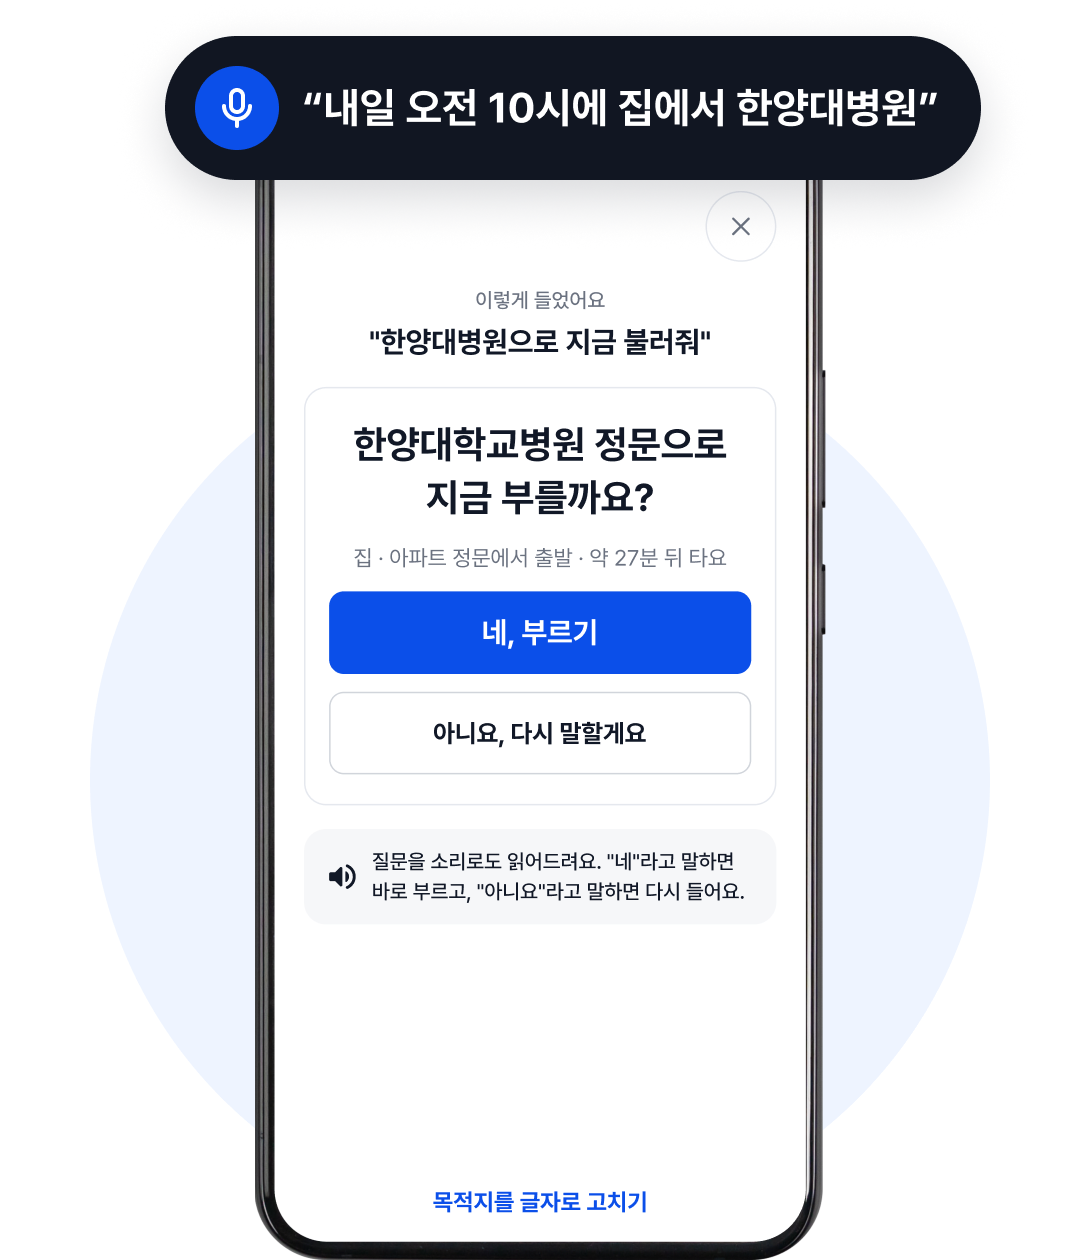
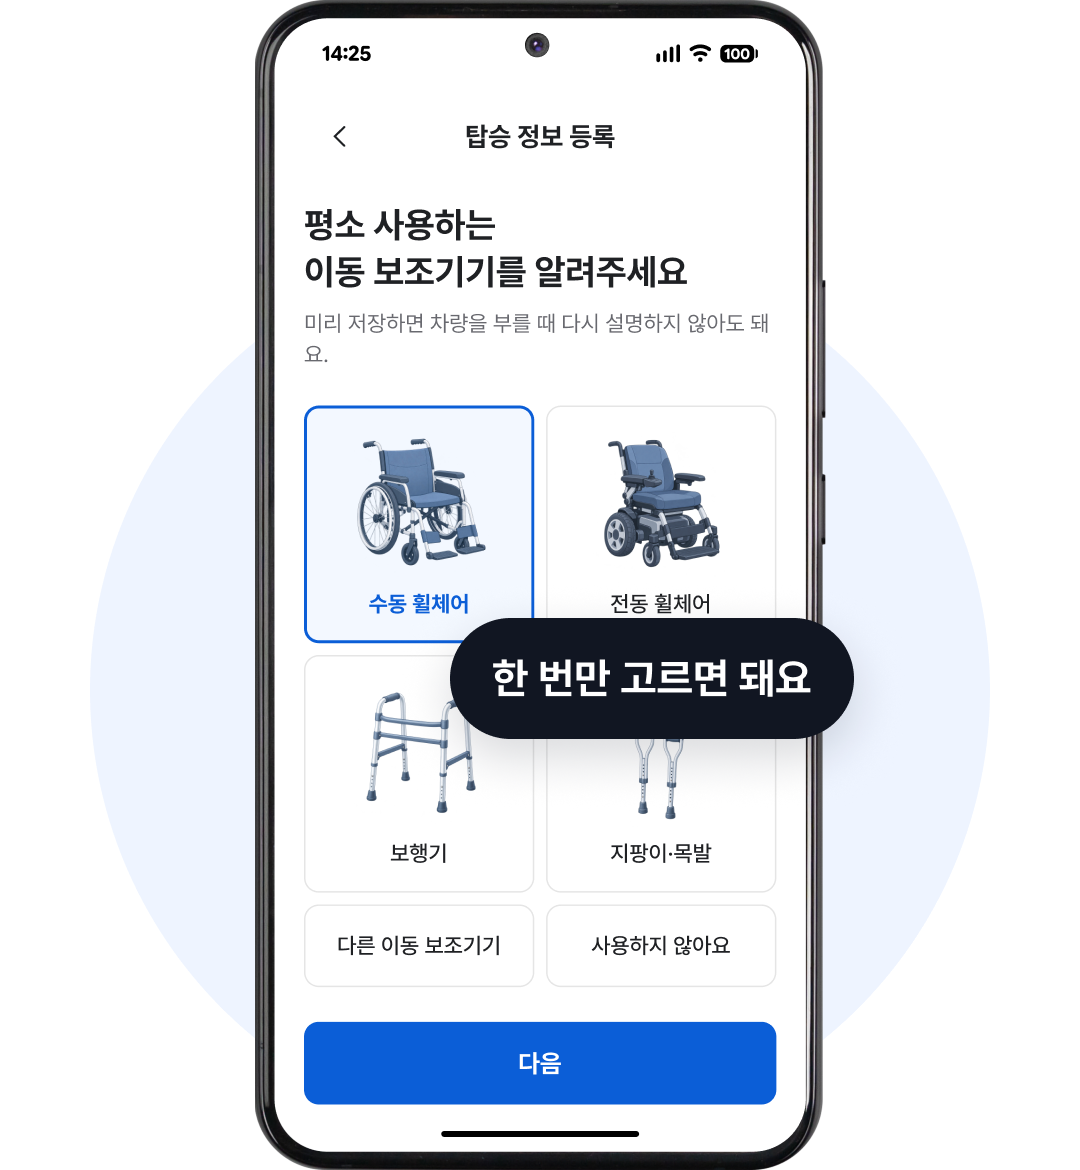
온보딩 2쪽: 음성 부르기 대신 탑승 정보 한 번 등록 (목업 = 탑승 정보 등록 화면) · 4쪽 마이크 설명 · 캐시 버전 갱신

diff --git a/onboarding.html b/onboarding.html
@@ -15,9 +15,9 @@
     <meta name="mobile-web-app-capable" content="yes">
     <meta name="apple-mobile-web-app-title" content="모두의 이동">
     <title>시작하기 | 모두의 이동</title>
-    <link rel="stylesheet" href="css/common.css?v=2610241218">
-    <link rel="stylesheet" href="css/onboarding.css?v=2610241218">
-    <script src="js/common.js?v=2610241218"></script>
+    <link rel="stylesheet" href="css/common.css?v=2610241229">
+    <link rel="stylesheet" href="css/onboarding.css?v=2610241229">
+    <script src="js/common.js?v=2610241229"></script>
 </head>
 <body>
     <!-- 온보딩_v3 1~4 (언제 탈 수 있는지 · 말하면 자동 작성 · 차가 오면 알림 · 권한 허용) -->
@@ -42,10 +42,10 @@
         <!-- 2 -->
         <section class="onb__slide" data-onb-slide aria-labelledby="onb-t2" hidden>
             <div class="onb__text">
-                <h2 class="onb__title" id="onb-t2">말만 하면<br><em>자동으로</em> 적어드려요</h2>
-                <p class="onb__desc">날짜·시간·장소를 알아서 채워요.<br>틀린 부분만 눌러서 고치면 돼요.</p>
+                <h2 class="onb__title" id="onb-t2">내 이동 보조기기를<br><em>한 번만</em> 알려 주세요</h2>
+                <p class="onb__desc">휠체어·탑승 방법을 저장해 두면<br>부를 때마다 기사님께 함께 전해져요.</p>
             </div>
-            <img class="onb__art onb__art--lift" src="image/onboarding-2.png" alt="말로 부르기 예시 · “내일 오전 10시에 집에서 한양대병원”">
+            <img class="onb__art" src="image/onboarding-2.png" alt="탑승 정보 등록 화면 예시 · 평소 사용하는 이동 보조기기 중 수동 휠체어를 고른 모습 · 한 번만 고르면 돼요">
         </section>
 
         <!-- 3 -->
@@ -82,7 +82,7 @@
                     <span class="onb-perm__icon" aria-hidden="true"><span class="icon icon--microphone"></span></span>
                     <span class="onb-perm__text">
                         <span class="onb-perm__title">마이크</span>
-                        <span class="onb-perm__desc">말로 목적지와 시간을 입력할 때만 써요.</span>
+                        <span class="onb-perm__desc">목적지를 말로 입력할 때만 써요.</span>
                     </span>
                 </li>
             </ul>
@@ -97,6 +97,6 @@
         </div>
     </div>
 
-    <script src="js/onboarding.js?v=2610241218"></script>
+    <script src="js/onboarding.js?v=2610241229"></script>
 </body>
 </html>

diff --git a/index.html b/index.html
@@ -15,9 +15,9 @@
     <meta name="mobile-web-app-capable" content="yes">
     <meta name="apple-mobile-web-app-title" content="모두의 이동">
     <title>모두의 이동</title>
-    <link rel="stylesheet" href="css/common.css?v=2610241218">
-    <link rel="stylesheet" href="css/home.css?v=2610241218">
-    <script src="js/common.js?v=2610241218"></script>
+    <link rel="stylesheet" href="css/common.css?v=2610241229">
+    <link rel="stylesheet" href="css/home.css?v=2610241229">
+    <script src="js/common.js?v=2610241229"></script>
     <script>
         // 앱을 처음 열 때(바깥에서 들어올 때)는 스플래시부터 · 앱 안에서 홈으로 돌아올 땐 바로 홈
         try {
@@ -25,14 +25,14 @@
             if (!sessionStorage.getItem('splashShown') && !fromInside) location.replace('splash.html');
         } catch (e) {}
     </script>
-    <script src="js/config.js?v=2610241218"></script>
-    <script src="js/ride-info.js?v=2610241218"></script>
-    <script src="js/stats.js?v=2610241218"></script>
-    <script src="js/reader.js?v=2610241218"></script>
-    <script src="js/trip.js?v=2610241218"></script>
-    <script src="js/actions.js?v=2610241218"></script>
-    <script src="js/push.js?v=2610241218"></script>
-    <script src="js/notices.js?v=2610241218"></script>
+    <script src="js/config.js?v=2610241229"></script>
+    <script src="js/ride-info.js?v=2610241229"></script>
+    <script src="js/stats.js?v=2610241229"></script>
+    <script src="js/reader.js?v=2610241229"></script>
+    <script src="js/trip.js?v=2610241229"></script>
+    <script src="js/actions.js?v=2610241229"></script>
+    <script src="js/push.js?v=2610241229"></script>
+    <script src="js/notices.js?v=2610241229"></script>
 </head>
 <body>
     <div id="wrap">

diff --git a/riding.html b/riding.html
@@ -15,19 +15,19 @@
     <meta name="mobile-web-app-capable" content="yes">
     <meta name="apple-mobile-web-app-title" content="모두의 이동">
     <title>탑승 중 | 모두의 이동</title>
-    <link rel="stylesheet" href="css/common.css?v=2610241218">
-    <link rel="stylesheet" href="css/progress.css?v=2610241218">
-    <script src="js/common.js?v=2610241218"></script>
-    <script src="js/config.js?v=2610241218"></script>
-    <script src="js/trip.js?v=2610241218"></script>
-    <script src="js/ride-info.js?v=2610241218"></script>
+    <link rel="stylesheet" href="css/common.css?v=2610241229">
+    <link rel="stylesheet" href="css/progress.css?v=2610241229">
+    <script src="js/common.js?v=2610241229"></script>
+    <script src="js/config.js?v=2610241229"></script>
+    <script src="js/trip.js?v=2610241229"></script>
+    <script src="js/ride-info.js?v=2610241229"></script>
     <script>
         // 탑승 시각 기록 (도착 예상·이동 완료 시각 계산에 씀)
         if (!Trip.get().boardedAt) Trip.set({ boardedAt: Date.now() });
     </script>
-    <script src="js/map.js?v=2610241218"></script>
-    <script src="js/push.js?v=2610241218"></script>
-    <script src="js/actions.js?v=2610241218"></script>
+    <script src="js/map.js?v=2610241229"></script>
+    <script src="js/push.js?v=2610241229"></script>
+    <script src="js/actions.js?v=2610241229"></script>
 </head>
 <body>
     <div id="wrap" class="map-page" data-sheet-fit="40" data-progress-stage="riding" data-stage="riding">

diff --git a/voice.html b/voice.html
@@ -15,15 +15,15 @@
     <meta name="mobile-web-app-capable" content="yes">
     <meta name="apple-mobile-web-app-title" content="모두의 이동">
     <title>음성으로 부르기 | 모두의 이동</title>
-    <link rel="stylesheet" href="css/common.css?v=2610241218">
-    <link rel="stylesheet" href="css/voice.css?v=2610241218">
-    <script src="js/common.js?v=2610241218"></script>
-    <script src="js/config.js?v=2610241218"></script>
-    <script src="js/trip.js?v=2610241218"></script>
-    <script src="js/map.js?v=2610241218"></script>
-    <script src="js/places.js?v=2610241218"></script>
-    <script src="js/ride-info.js?v=2610241218"></script>
-    <script src="js/stats.js?v=2610241218"></script>
+    <link rel="stylesheet" href="css/common.css?v=2610241229">
+    <link rel="stylesheet" href="css/voice.css?v=2610241229">
+    <script src="js/common.js?v=2610241229"></script>
+    <script src="js/config.js?v=2610241229"></script>
+    <script src="js/trip.js?v=2610241229"></script>
+    <script src="js/map.js?v=2610241229"></script>
+    <script src="js/places.js?v=2610241229"></script>
+    <script src="js/ride-info.js?v=2610241229"></script>
+    <script src="js/stats.js?v=2610241229"></script>
 </head>
 <body>
     <div id="wrap" class="voice-page">
@@ -144,6 +144,6 @@
         </section>
     </div>
 
-    <script src="js/voice.js?v=2610241218"></script>
+    <script src="js/voice.js?v=2610241229"></script>
 </body>
 </html>

diff --git a/waiting.html b/waiting.html
@@ -15,16 +15,16 @@
     <meta name="mobile-web-app-capable" content="yes">
     <meta name="apple-mobile-web-app-title" content="모두의 이동">
     <title>차량 찾는 중 | 모두의 이동</title>
-    <link rel="stylesheet" href="css/common.css?v=2610241218">
-    <link rel="stylesheet" href="css/progress.css?v=2610241218">
-    <script src="js/common.js?v=2610241218"></script>
-    <script src="js/config.js?v=2610241218"></script>
-    <script src="js/trip.js?v=2610241218"></script>
-    <script src="js/map.js?v=2610241218"></script>
-    <script src="js/push.js?v=2610241218"></script>
-    <script src="js/actions.js?v=2610241218"></script>
-    <script src="js/stats.js?v=2610241218"></script>
-    <script src="js/ride-info.js?v=2610241218"></script>
+    <link rel="stylesheet" href="css/common.css?v=2610241229">
+    <link rel="stylesheet" href="css/progress.css?v=2610241229">
+    <script src="js/common.js?v=2610241229"></script>
+    <script src="js/config.js?v=2610241229"></script>
+    <script src="js/trip.js?v=2610241229"></script>
+    <script src="js/map.js?v=2610241229"></script>
+    <script src="js/push.js?v=2610241229"></script>
+    <script src="js/actions.js?v=2610241229"></script>
+    <script src="js/stats.js?v=2610241229"></script>
+    <script src="js/ride-info.js?v=2610241229"></script>
 </head>
 <body>
     <div id="wrap" class="map-page" data-sheet-fit data-progress-stage="waiting" data-cancel-stage="before">

diff --git a/map-pick.html b/map-pick.html
@@ -15,13 +15,13 @@
     <meta name="mobile-web-app-capable" content="yes">
     <meta name="apple-mobile-web-app-title" content="모두의 이동">
     <title>지도에서 고르기 | 모두의 이동</title>
-    <link rel="stylesheet" href="css/common.css?v=2610241218">
-    <link rel="stylesheet" href="css/pick.css?v=2610241218">
-    <script src="js/common.js?v=2610241218"></script>
-    <script src="js/config.js?v=2610241218"></script>
-    <script src="js/trip.js?v=2610241218"></script>
-    <script src="js/map.js?v=2610241218"></script>
-    <script src="js/favorites.js?v=2610241218"></script>
+    <link rel="stylesheet" href="css/common.css?v=2610241229">
+    <link rel="stylesheet" href="css/pick.css?v=2610241229">
+    <script src="js/common.js?v=2610241229"></script>
+    <script src="js/config.js?v=2610241229"></script>
+    <script src="js/trip.js?v=2610241229"></script>
+    <script src="js/map.js?v=2610241229"></script>
+    <script src="js/favorites.js?v=2610241229"></script>
 </head>
 <body>
     <!-- 지도에서 직접 고르기 (?mode=pickup 탑승 위치 · dest 도착지 · fav 자주 가는 곳 · &edit=home 집 주소 바꾸기)
@@ -57,6 +57,6 @@
         </section>
     </div>
 
-    <script src="js/map-pick.js?v=2610241218"></script>
+    <script src="js/map-pick.js?v=2610241229"></script>
 </body>
 </html>

diff --git a/wheelchair.html b/wheelchair.html
@@ -15,12 +15,12 @@
     <meta name="mobile-web-app-capable" content="yes">
     <meta name="apple-mobile-web-app-title" content="모두의 이동">
     <title>휠체어 정보 추가 | 모두의 이동</title>
-    <link rel="stylesheet" href="css/common.css?v=2610241218">
-    <link rel="stylesheet" href="css/ride-info.css?v=2610241218">
-    <link rel="stylesheet" href="css/wheelchair.css?v=2610241218">
-    <script src="js/common.js?v=2610241218"></script>
-    <script src="js/config.js?v=2610241218"></script>
-    <script src="js/ride-info.js?v=2610241218"></script>
+    <link rel="stylesheet" href="css/common.css?v=2610241229">
+    <link rel="stylesheet" href="css/ride-info.css?v=2610241229">
+    <link rel="stylesheet" href="css/wheelchair.css?v=2610241229">
+    <script src="js/common.js?v=2610241229"></script>
+    <script src="js/config.js?v=2610241229"></script>
+    <script src="js/ride-info.js?v=2610241229"></script>
 </head>
 <body>
     <!-- 휠체어정보_v13 (A 사진·모델명 경로 / B 규격 경로) · 화면은 주소 끝(#a0 · #a1 …)으로 바뀌고 뒤로 가기로 돌아감 -->
@@ -268,6 +268,6 @@
         </section>
     </div>
 
-    <script src="js/wheelchair.js?v=2610241218"></script>
+    <script src="js/wheelchair.js?v=2610241229"></script>
 </body>
 </html>

diff --git a/chat.html b/chat.html
@@ -15,13 +15,13 @@
     <meta name="mobile-web-app-capable" content="yes">
     <meta name="apple-mobile-web-app-title" content="모두의 이동">
     <title>기사님과 대화 | 모두의 이동</title>
-    <link rel="stylesheet" href="css/common.css?v=2610241218">
-    <link rel="stylesheet" href="css/progress.css?v=2610241218">
-    <script src="js/common.js?v=2610241218"></script>
-    <script src="js/config.js?v=2610241218"></script>
-    <script src="js/trip.js?v=2610241218"></script>
-    <script src="js/actions.js?v=2610241218"></script>
-    <script src="js/push.js?v=2610241218"></script>
+    <link rel="stylesheet" href="css/common.css?v=2610241229">
+    <link rel="stylesheet" href="css/progress.css?v=2610241229">
+    <script src="js/common.js?v=2610241229"></script>
+    <script src="js/config.js?v=2610241229"></script>
+    <script src="js/trip.js?v=2610241229"></script>
+    <script src="js/actions.js?v=2610241229"></script>
+    <script src="js/push.js?v=2610241229"></script>
 </head>
 <body>
     <!-- F4 기사 대화 · 탑승 전 (?stage=before · soon · arrived) / F5 이동 중 (?stage=riding) -->
@@ -68,6 +68,6 @@
         </form>
     </div>
 
-    <script src="js/chat.js?v=2610241218"></script>
+    <script src="js/chat.js?v=2610241229"></script>
 </body>
 </html>

diff --git a/assigned.html b/assigned.html
@@ -15,14 +15,14 @@
     <meta name="mobile-web-app-capable" content="yes">
     <meta name="apple-mobile-web-app-title" content="모두의 이동">
     <title>차량 배정 | 모두의 이동</title>
-    <link rel="stylesheet" href="css/common.css?v=2610241218">
-    <link rel="stylesheet" href="css/progress.css?v=2610241218">
-    <script src="js/common.js?v=2610241218"></script>
-    <script src="js/config.js?v=2610241218"></script>
-    <script src="js/trip.js?v=2610241218"></script>
-    <script src="js/map.js?v=2610241218"></script>
-    <script src="js/push.js?v=2610241218"></script>
-    <script src="js/actions.js?v=2610241218"></script>
+    <link rel="stylesheet" href="css/common.css?v=2610241229">
+    <link rel="stylesheet" href="css/progress.css?v=2610241229">
+    <script src="js/common.js?v=2610241229"></script>
+    <script src="js/config.js?v=2610241229"></script>
+    <script src="js/trip.js?v=2610241229"></script>
+    <script src="js/map.js?v=2610241229"></script>
+    <script src="js/push.js?v=2610241229"></script>
+    <script src="js/actions.js?v=2610241229"></script>
 </head>
 <body>
     <!-- 배정 → 도착 임박을 이 한 화면에서 (단계가 바뀌면 새로 열지 않고 글자만 부드럽게 바뀜 · js/push.js)

diff --git a/history.html b/history.html
@@ -15,14 +15,14 @@
     <meta name="mobile-web-app-capable" content="yes">
     <meta name="apple-mobile-web-app-title" content="모두의 이동">
     <title>이용내역 | 모두의 이동</title>
-    <link rel="stylesheet" href="css/common.css?v=2610241218">
-    <link rel="stylesheet" href="css/tabs.css?v=2610241218">
-    <script src="js/common.js?v=2610241218"></script>
-    <script src="js/config.js?v=2610241218"></script>
-    <script src="js/trip.js?v=2610241218"></script>
-    <script src="js/push.js?v=2610241218"></script>
-    <script src="js/stats.js?v=2610241218"></script>
-    <script src="js/actions.js?v=2610241218"></script>
+    <link rel="stylesheet" href="css/common.css?v=2610241229">
+    <link rel="stylesheet" href="css/tabs.css?v=2610241229">
+    <script src="js/common.js?v=2610241229"></script>
+    <script src="js/config.js?v=2610241229"></script>
+    <script src="js/trip.js?v=2610241229"></script>
+    <script src="js/push.js?v=2610241229"></script>
+    <script src="js/stats.js?v=2610241229"></script>
+    <script src="js/actions.js?v=2610241229"></script>
 </head>
 <body>
     <!-- 이용내역 (이동 완료 화면에서 남긴 기록 · 누르면 자세히) -->

diff --git a/fav-add.html b/fav-add.html
@@ -15,14 +15,14 @@
     <meta name="mobile-web-app-capable" content="yes">
     <meta name="apple-mobile-web-app-title" content="모두의 이동">
     <title>자주 가는 곳 추가 | 모두의 이동</title>
-    <link rel="stylesheet" href="css/common.css?v=2610241218">
-    <link rel="stylesheet" href="css/fav.css?v=2610241218">
-    <script src="js/common.js?v=2610241218"></script>
-    <script src="js/config.js?v=2610241218"></script>
-    <script src="js/trip.js?v=2610241218"></script>
-    <script src="js/map.js?v=2610241218"></script>
-    <script src="js/places.js?v=2610241218"></script>
-    <script src="js/favorites.js?v=2610241218"></script>
+    <link rel="stylesheet" href="css/common.css?v=2610241229">
+    <link rel="stylesheet" href="css/fav.css?v=2610241229">
+    <script src="js/common.js?v=2610241229"></script>
+    <script src="js/config.js?v=2610241229"></script>
+    <script src="js/trip.js?v=2610241229"></script>
+    <script src="js/map.js?v=2610241229"></script>
+    <script src="js/places.js?v=2610241229"></script>
+    <script src="js/favorites.js?v=2610241229"></script>
 </head>
 <body>
     <!-- 자주 가는 곳 추가 (?edit=home 이면 집 주소 바꾸기)

diff --git a/arrived.html b/arrived.html
@@ -15,14 +15,14 @@
     <meta name="mobile-web-app-capable" content="yes">
     <meta name="apple-mobile-web-app-title" content="모두의 이동">
     <title>차량 도착 | 모두의 이동</title>
-    <link rel="stylesheet" href="css/common.css?v=2610241218">
-    <link rel="stylesheet" href="css/progress.css?v=2610241218">
-    <script src="js/common.js?v=2610241218"></script>
-    <script src="js/config.js?v=2610241218"></script>
-    <script src="js/trip.js?v=2610241218"></script>
-    <script src="js/map.js?v=2610241218"></script>
-    <script src="js/push.js?v=2610241218"></script>
-    <script src="js/actions.js?v=2610241218"></script>
+    <link rel="stylesheet" href="css/common.css?v=2610241229">
+    <link rel="stylesheet" href="css/progress.css?v=2610241229">
+    <script src="js/common.js?v=2610241229"></script>
+    <script src="js/config.js?v=2610241229"></script>
+    <script src="js/trip.js?v=2610241229"></script>
+    <script src="js/map.js?v=2610241229"></script>
+    <script src="js/push.js?v=2610241229"></script>
+    <script src="js/actions.js?v=2610241229"></script>
 </head>
 <body>
     <div id="wrap" class="map-page" data-sheet-fit data-progress-stage="arrived"
